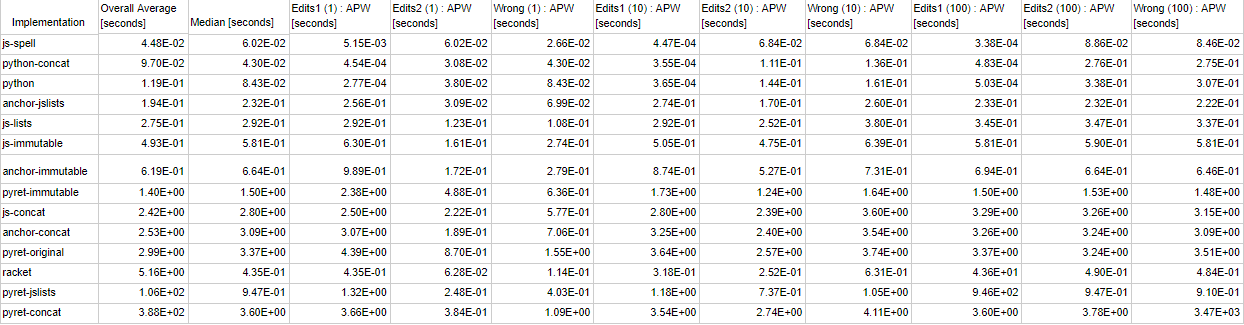
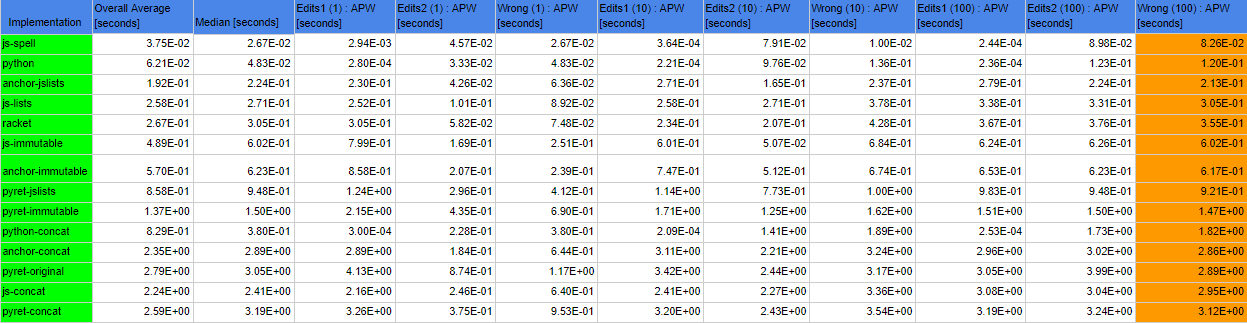
Timings and summary

diff --git a/js-immutable.js b/js-immutable.js
@@ -93,7 +93,7 @@ function edits1( word ) {
 };
 
 function edits2( word ) {
-  return edits1( word ).map( newWord => edits1(newWord) ).flatten();
+  return edits1( word ).flatMap( newWord => edits1(newWord) );
 };
 
 function correction( word ) {
@@ -122,8 +122,8 @@ function testTiming( words, mustCorrect ) {
   for ( let index = 0; index < 100; index++ ) {
     var word = words[index];
     var correctedWord = correction( word );
-    assert.strictEqual( correctedWord !== word, mustCorrect );
-    assert.strictEqual( WORDS.hasOwnProperty( correctedWord ), mustCorrect );
+    // assert.strictEqual( correctedWord !== word, mustCorrect );
+    // assert.strictEqual( WORDS.hasOwnProperty( correctedWord ), mustCorrect );
   }
   console.log( process.hrtime( start ) );
 };

diff --git a/js-spell.js b/js-spell.js
@@ -89,8 +89,8 @@ function testTiming( words, mustCorrect ) {
   for ( let index = 0; index < 100; index++ ) {
     var word = words[index];
     var correctedWord = speller.correct( word );
-    assert.strictEqual( correctedWord !== word, mustCorrect );
-    assert.strictEqual( speller.nWords.hasOwnProperty( correctedWord ), mustCorrect );
+    // assert.strictEqual( correctedWord !== word, mustCorrect );
+    // assert.strictEqual( speller.nWords.hasOwnProperty( correctedWord ), mustCorrect );
   }
   console.log( process.hrtime( start ) );
 };

diff --git a/js-concat.js b/js-concat.js
@@ -133,8 +133,8 @@ function testTiming( words, mustCorrect ) {
   for ( let index = 0; index < 100; index++ ) {
     var word = words[index];
     var correctedWord = correction( word );
-    assert.strictEqual( correctedWord !== word, mustCorrect );
-    assert.strictEqual( WORDS.hasOwnProperty( correctedWord ), mustCorrect );
+    // assert.strictEqual( correctedWord !== word, mustCorrect );
+    // assert.strictEqual( WORDS.hasOwnProperty( correctedWord ), mustCorrect );
   }
   console.log( process.hrtime( start ) );
 };

diff --git a/js-lists.js b/js-lists.js
@@ -154,8 +154,8 @@ function testTiming( words, mustCorrect ) {
   for ( let index = 0; index < 100; index++ ) {
     var word = words[index];
     var correctedWord = correction( word );
-    assert.strictEqual( correctedWord !== word, mustCorrect );
-    assert.strictEqual( WORDS.hasOwnProperty( correctedWord ), mustCorrect );
+    // assert.strictEqual( correctedWord !== word, mustCorrect );
+    // assert.strictEqual( WORDS.hasOwnProperty( correctedWord ), mustCorrect );
   }
   console.log( process.hrtime( start ) );
 };

diff --git a/python-concat.py b/python-concat.py
@@ -30,20 +30,13 @@ def edits1(word):
     transposes = [L + R[1] + R[0] + R[2:] for L, R in splits if len(R)>1]
     replaces   = [L + c + R[1:]           for L, R in splits if R for c in letters]
     inserts    = [L + c + R               for L, R in splits for c in letters]
-    # NOTE(joe): Two options for returning:
-    #return deletes + transposes + replaces + inserts
-    return set(deletes + transposes + replaces + inserts)
+    return deletes + transposes + replaces + inserts
 
 def edits2(word): 
-    # NOTE(joe): Two options for how to return
-    #lst = []
-    #for e1 in edits1(word):
-    #  And several options within the loop (could also do another nested loop with lst.append)
-    #  #lst = lst + edits1(e1)
-    #  lst += edits1(e1)
-    #return lst
-    "All edits that are two edits away from `word`."
-    return (e2 for e1 in edits1(word) for e2 in edits1(e1))
+    lst = []
+    for e1 in edits1(word):
+      lst = lst + edits1(e1)
+    return lst
 
 def testTiming( words, mustCorrect ):
     print "Single word"

diff --git a/README.md b/README.md
@@ -1,38 +1,124 @@
 # Purpose
-The purpose of this repo is to compare the runtime of Norvig's spell checker implementation mentioned [here](https://norvig.com/spell-correct.html) across different languages, in this case JS, Python, Pyret, and Racket.
+The purpose of this repo is to study the differences in runtime between varying implementations of [Norvig's spell corrector](https://norvig.com/spell-correct.html)
 
-# Implementation
-There are 10 total implementations:
-* `python.py` - the original Python implementation by Norvig, 
-* `js-spell.js` - a JS implementation by [Panagiotis Astithas](http://astithas.blogspot.com/2009/08/spell-checking-in-javascript.html) that diverges slightly in its spell correction algorithm
-* `js-lists.js` - a JS implementation that uses JavaScript's builtin arrays and objects
-* `js-immutable.js` - a JS implementation that uses [Facebook's immutable](https://facebook.github.io/immutable-js/) collection
-* `racket.rkt`
-* `pyret-original.arr` - a Pyret implementation that uses its builtin lists and string dictionaries
-* `pyret-lists.arr` - a Pyret implementation that imports a JS file that provides the use of builtin JS arrays and objects
-* `pyret-immutable.arr` - a Pyret implementation that imports a JS file that provides the use of Facebook's immutable collection
-* `anchor-lists.arr` - an experimental CLI implementation of Pyret that uses builtin JS arrays and objects for its lists and dictionaries, respectively
-* `anchor-immutable.arr` - similar to `anchor-lists.arr`, but the underlying structure of lists and dictionaries uses Facebook's immutable collection
+# Implementations
 
-Below is a graph representing the underlying data structure used for each implementation
+Below are all the implementations that were compared for this study along with a short description of each
+* `anchor-immutable` - experimental CLI implementation of Pyret that uses [Facebook's immutables collection](https://facebook.github.io/immutable-js/) as the underlying structure for lists and string dictionaries
+* `anchor-jslists` - similar to anchor-immutable, this implementation instead uses JavaScript's builtin arrays and objects instead and pushes elements when concatenating lists
+* `anchor-concat` - similar to `anchor-jslists` but instead uses the `concat` method of arrays when concatenating lists
+* `js-immutable` - JS implementation that uses Facebook's immutables
+* `js-lists `- JS implementation that uses the builtin arrays and objects, and pushes when concatenating lists
+* `js-concat` - similar to `js-lists` but uses the `concat` method when concatenating lists
+* `js-spell` - implemented by [Panagiotis Astithas](http://blog.astithas.com/2009/08/spell-checking-in-javascript.html), this JS implementation differs from others in how it generates both the 1 and 2 distance edits of words, removing the need of having intermediate lists to hold edited words
+* `pyret-immutable` - Pyret-of-today implementation that imports a JS file that uses Facebook's immutables
+* `pyret-jslists` - similar to `pyret-immutable` but instead uses JavaScript's builtin arrays and objects, pushing elements when concatenating lists
+* `pyret-concat` - similar to `pyret-jslists` but instead uses the `concat` method to concatenate lists
+* `pyret-original` - Pyret implementation that uses Pyret's builtin list and string dictionary
+* `python` - Norvig's implementation which all other implementations model after
+* `python-concat` - similar to Norvig's implementation but uses list concatenation instead of comprehension
+* `racket` - Racket implementation
 
+## Underlying Data Structures
 
-# 
-All versions follow the same structure and procedure as discussed by Norvig. Each implementation was tasked with spell checking 3 different types of words: words that were 1 edit away from a correct word found in the corpus (`big.txt`), words that were 2 edits away, and words that were 3 or more edits away. Each spell checker was timed for the total time it took to correct 1, 10, and 100 words of each type. In order to assure that they were running correctly, an assertion was made when correcting 100 words such that if the word was 1 or 2 edits away, the word returned by the corrector was not the same as the initial given word and that it was found in the corpus, and vice versa if the word was 3 or more edits away.
+One convenient metric of organizing all implementations is by their list's underlying behavior when concatenating: does concatenating two lists updates the first list or does it create a new list? Take the short program below:
 
+```
+listA = [1, 2, 3]
+listB = [4, 5, 6]
+listA.concat( listB )
+```
 
+After the concatenation, does `listA` still hold the original list `[1, 2, 3]` or is it updated to now hold the larger list `[1, 2, 3, 4, 5, 6]`? JavaScript's concatenation method and Python's `+` operator create a new list, as well as the (appropriately named) immutable collection. Since `pyret-original`'s lists behave similarly to `racket`'s, and `racket` also returns a new list when concatenating, that leaves `js-spell`, `anchor-jslists`, `js-lists`, and `pyret-jslists` as the only implementations that update the original list, as they use JavaScript's `push` method, which modifies the original list. 
+
+We can further divide the implementations by their choice of data structure for their lists. As mentioned [here](https://docs.racket-lang.org/guide/Lists__Iteration__and_Recursion.html), `racket` and `pyret-original` employ a linked list. Meanwhile, as the immutable collection has a factor of `O(log32 N)` for its gets and sets methods as specified [here](https://facebook.github.io/immutable-js/docs/#/List) and discussed [here](https://hackernoon.com/how-immutable-data-structures-e-g-immutable-js-are-optimized-using-structural-sharing-e4424a866d56), `anchor-immutable`, `js-immutable`, and `pyret-immutable` utilize a trie for its list's data structure. Lastly, both Python and JavaScript utilize a resizable array for their list's data structure. Below is a table that summarizes the categories we have placed for each implementation.
+
+|             | Updates original list                                        | Creates new list                                             |
+| ----------- | ------------------------------------------------------------ | ------------------------------------------------------------ |
+| Linked List | --                                                           | * `racket`<br />* `pyret-original`                           |
+| Trie        | --                                                           | * `anchor-immutable`<br />* `js-immutable`<br />* `pyret-immutable` |
+| Array List  | * `anchor-jslists`<br />* `js-lists`<br />* `pyret-jslists`<br />* `js-spell` | * `Python`<br />* `anchor-concat`<br />* `js-concat`<br />* `pyret-concat`<br />* `python-concat` |
 
 # Data
-https://docs.google.com/spreadsheets/d/1hDniIEtKY8GPeuk0Al-XyGTundKR4BD-rSUGG63uV6c/edit?usp=sharing
 
-![Timing Results](timing.results.png)
+![timing results](timing.results.png)
+
+We will be considering the average time when running `correction` on 100 wrong words for two reasons:
+
+* this demonstrates the worst case scenario for a spell checker as it has to check for all possible 1 and 2 distance away edits, which prevents any lazy evaluation in the `correction` function from certain implementations of not generating the 2 distance away edits list if the correct word is 1 edit away
+* a larger pool of words to correct will provide a more accurate timing than running a single correction by averaging out any possible outliers
 
 # Discussion
-There are a few interesting things to note from these results.
 
-`js-spell.js` seems to perform the fastest with `python.py` being a close second. However, it was noted that `js-spell.js` had a different way of implementing the correction process. Instead of having to calculate the probability of every word that was 1 edit away, Astithas only considered words found in the corpus to be possible candidates. For example, edits1( "hellp" ) would return a list of words including "hello", "help", and "hellw" amongst others. In this case, "hello" and "help" would be considered candidates while "hellw" would not as it could not be found in the corpus. Therefore, there are less candidates to calculate their probability causing a shorter runtime. Meanwhile, `python.py` saves some computation by placing all of its candidates in a set, removing any duplicate edits, and thus preventing the program from having to compute the same probability twice (transposing on words that have adjacent duplicate letters comes to mind).
+## Implementation Technicalities
 
-Surprisingly, `anchor-jslists.arr` ran slightly faster than `js-lists.js`. `anchor-jslists.arr` is using the builtin JS arrays and objects in the same way as `js-lists.js`, which would imply that `anchor`'s implementation only introduces an overhead in its runtime compared to JS's, as seen by comparing `js-immutable.js` and `anchor-immutable.arr`. The reason behind this is how the concatenation of lists is handled by `anchor`, using pushes instead of calling JS array's `concat` method. Switching all instances of pushes to `concat` on both the JS and Anchor implementations increases the total runtime of correction per word. `js-lists.js` changes from 0.277 seconds to around 3.403 seconds per word, and `anchor-jslists.arr` changes from 0.204 seconds to around 3.755 seconds per word, now matching the expectation of Anchor introducing some slight overhead to JS's implementation.
+Below are some technical observations that significantly affected the overall runtime of certain implementations and are worth discussing
+
+### Immutable's Flattens and Reductions
+
+When generating the `replaces`, `inserts`, and `edits2` lists under all immutable implementations, a choice was given between using one of the three procedures, all of which return the same result. I provide a short definition and how they would be used to generate the `replaces` list of edits.
+
+* `getReplace( c )` - this function takes a character `c` and returns a list of words where each letter of the to be edited word is replaced with `c`
+
+  ```
+  function getReplace( c ) {
+      return splits
+               .filter( split => split.R.length > 0 )
+               .map( split => split.L + c  + split.R.substring( 1, split.R.length ) );
+  }
+  ```
+
+* `.map( f ).flatten()` - this method would first map the function `f` to each element of the list and would then flatten out any inner lists generated by `f` to the outer most list
+
+  ```
+  var replaces = letters.map( getReplace ).flatten();
+  ```
+
+* `.flatMap( f )` -  this method does the same as above requiring just a single method call
+
+  ```
+  var replaces = letters.flatMap( getReplace )
+  ```
+
+* `.reduce( f, v )` - given an initial accumulator `v` and a function `f` that must take an accumulator and single value, `reduce` would fold the list, taking a single element from the list each time, doing its necessary computation, and aggregating it to the accumulator, returning a single value in the end
+
+  ```
+  var replaces = letters.reduce( 
+    ( acc, char ) => acc.concat( getReplace( char ) ), List( [] ) );
+  ```
+
+While `.map.flatten()` and `.flatMap()` did not have much performance difference when generating `replaces`, `inserts`, nor `edits2`, `.reduce()` would cause the spellchecker to run at nearly 2 to 3 times as long. A possible reason as to why this is happening is that reduce has to concatenate the accumulator with the list generated by the current value at every step, and concatenation requires creating a new list, causing the garbage collector to be called more often and therefore causing the spellchecker to decrease in speed. Therefore, `flatMap` was chosen for all immutable implementations.
+
+### Racket Sets, Comprehensions, and Folds
+
+Contrary to the Immutable collection above, Racket did not generate much difference in runtime whether it used folds or comprehensions. This contrasts with Python's difference in performance, where using concatenation instead of comprehensions when generating the list of 2 distance away edits for Python increases the overall runtime by 10 times.
+
+### Concatenation Order
+
+One subtle technical detail is the ordering of concatenation for lists. That is, would the line `listA.concat( listB )` be faster, slower, or similar in speed to the line `listB.concat( listA )`? As mentioned before, Racket's data structure for lists is a linked list, which means that during concatenation the first list will be parsed through to its end in order for the last element to link to the first element of the second list. Therefore, it is more efficient to have the shorter list to be first. This is seen in `edits2`, where when folding over the list of 1 distance edits (`new-word`), we append the list generated from calling `edits1( new-word )` to the accumulator `lst`, since `lst` will continuously grow per folding operation. `js-concat` on the other hand, does the opposite at concatenation, where it will create a copy of the first list and then concatenate each element of the second list to the newly created list. Thus, the `edits2` of this implementation concatenates the list generated by calling `edits1( editWord )` to the accumulator.
+
+## Implementation Comparisons
+
+### The Efficiency of `js-spell`
+
+Although `js-spell` performed significantly better than other implementations, twice as fast than Python and five times faster than `js-lists` which also uses JavaScript's builtin arrays and objects, its efficiency lies on how it generates its 1 and 2 distance away edits. All other implementations follow Norvig's original formula of generating 1 distance away edits of the provided word, where a list is constructed that contains all possible deletions of a single character, one for transposing two adjacent letters, and so on. Lastly, all four lists are then merged together. `js-spell` instead stores all possible edits in one single list, removing the need to merge any lists in the function. Furthermore, when checking for 2 distance away edit words, all other implementations merge the lists generated from calling `edits1()` on each 1 distance away words. `js-spell`, on the other hand, calls `edits()` on each 1 distance away edit word without the need to merge the resulting list to later determine if any words are candidates. The lack of merging lists may explain the high efficiency of `js-spell`, accompanied with the fact that `push` is faster than `concat`, as discussed below.
+
+### `concat` vs. `push`
+
+It is interesting to observe that all the `concat` implementations performed significantly worse than their `jslists` counterpart, which instead uses `push` when concatenating two lists. [This online performance test](https://jsperf.com/javascript-array-concat-vs-push/100) likewise demonstrates that pushing when concatenating two lists has a better performance than using the `concat` method. There is a possibility that the garbage collector, similarly to the case mentioned previously with `reduce` vs. `flatten`,  has to be called more often due to `concat` returning a new list, whereas `push` edits the first list to contain the elements of the second list.
+
+### Python vs. Immutables
+
+Although `python` and all three immutable implementations do construct new lists when concatenating lists, it is their performance in reading elements in their lists that creates a stark difference in their runtime. As mentioned before, `python`'s list utilizes an array list as its data structure, where accessing elements in the list will be constant `O(1)`. On the other hand, the immutables collection uses a trie, causing element lookups to be logarithmic `O(log32 N )` . This is difference is significant when generating the list of 2 distance away edits, as the spell checker would first have to look through all elements in the list of 1 distance away edits and then through all the elements of the list of 2 distance away edits.
+
+### Python vs. Concat and JSLists
+
+On the other hand, `python` and all of the `concat` implementations create lists when concatenating and also use array lists, yet all `concat` implementations are at least 10 times slower, with `python-concat` being the fastest amongs them. As explained previously, this is due to the implementation of the `concat` method, where using `push` would significantly improve the overall runtime, and visibly so as all `jslists` implementations have a runtime closer to `python`. One possible cause as to why `jslists` implementations are still slower may be due to how `python` stores its edits in a set, saving the spell checker from having to generate duplicate lists when executing `edits2()`. For example, the word `heqq` is two edits away from `hey`. `edits1( heqq )` would generate duplicates of the word `heqq` when it transposes the last two letters and replaces each `q` with `q` again when running through the alphabet in `getReplace()`. `edits2()` would then have to compute 3 lists for the same word, whereas `python` avoids this by constructing a set of all the words, and thus `edits2()` would only generate one list for the word `heqq`. This is difference is more pronounced when the word to correct is longer.
+
+### Racket vs. Pyret-Original
+
+One fascinating observation is the difference in runtime between `racket` and `pyret-original`. As `pyret-original`'s lists are built with the same underlying data structure as `racket`'s and both do the same the same when generating both 1 and 2 distance away word lists, the fact that `racket` is 10 times faster than `pyret-original` begs to question what is is causing such contrast in performance. I speculate that this is due to how `racket` may be looking up and accessing its list elements, as we saw a similar situation when comparing `python` and the immutable implementations, though that difference was between the underlying data structure. Instead, while its data structure is a linked list, it is possible that `racket` is quickly accessing elements towards the middle of the list, instead of having to traverse through each element, while `pyret-original` may not. This, however, will remain a speculation until it is possible to directly compare their internal implementation of lists.
 
 # Conclusion
-The results of this repo have demonstrated that in order for Pyret to have a comparable runtime to other languages, implementing lists and string dictionaries with Facebook's immutable collection seems to be the best course of action. `js-spell.js`'s algorithm for computing corrections seems to be another thing to keep in mind, where if it were implemented to the other versions it should theoretically improve their runtime.
+
+Looking at the overall performance of the spell checker under each implementation, it is best for Anchor to provide both the immutables collection and builtin JavaScript array and objects as the underlying data structure for its lists and string dictionaries under two separate modules. The JS module would provide fast performance comparable with Python's lists, while the immutables module would follow the ideology of always generating new lists that Pyret-of-today implements.
